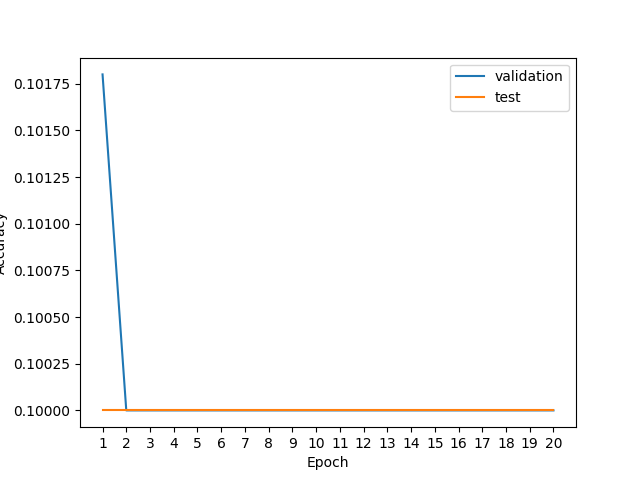
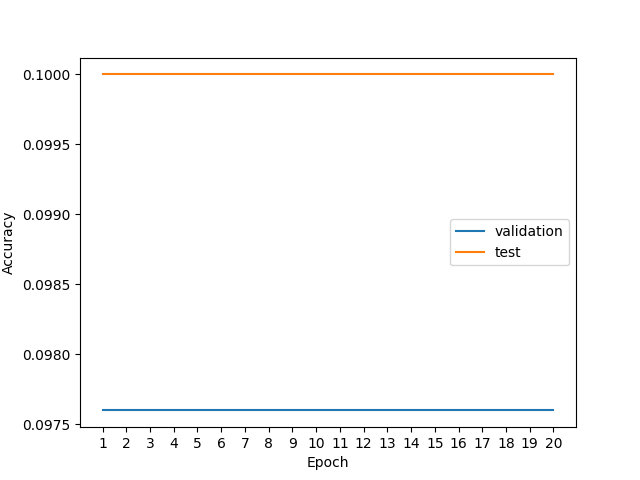
Logistic regression

diff --git a/hw1-q1.py b/hw1-q1.py
@@ -60,6 +60,7 @@ class Perceptron(LinearModel):
         y_hat = (self.W.dot(x_i)).argmax(axis=0)
         if y_hat != y_i:
             self.W += kwargs['learning_rate'] * y_i * x_i
+            #print(y_i*x_i)
 
 
 class LogisticRegression(LinearModel):
@@ -70,8 +71,11 @@ class LogisticRegression(LinearModel):
         learning_rate (float): keep it at the default value for your plots
         """
         # Q1.1b
-        y_hat = (self.W.dot(x_i)).argmax(axis=0)
-        self.W += learning_rate * (y_i - y_hat) * x_i
+        
+        y_hat = 1 / (1 + np.exp(-self.W.dot(x_i)))
+        x = np.matrix(x_i)
+        y_hat = np.matrix(y_hat)
+        self.W += learning_rate * (y_i - y_hat.T) * x
 
 
 class MLP(object):
@@ -99,13 +103,14 @@ class MLP(object):
         # no need to save the values of hidden nodes, whereas this is required
         # at training time.
         rand = np.random.randint(len(X))
-        h0 = X[rand]
+        h0 = X[0]
 
         z1 = self.W1.dot(h0) + self.b1
         h1 = np.maximum(0,z1)
 
         z2 = self.W2.dot(h1) + self.b2
-        h2 = z2
+        #h2 = z2
+        h2 = np.exp(z2) / np.sum(np.exp(z2))
         
         return h2.argmax(axis=0)
 
@@ -124,15 +129,16 @@ class MLP(object):
     def train_epoch(self, X, y, learning_rate=0.001):
         #Forward propagation
         rand = np.random.randint(len(X))
-        h0 = X[rand]
+        h0 = X[0]
 
         z1 = self.W1.dot(h0) + self.b1
         h1 = np.maximum(0,z1)
 
         z2 = self.W2.dot(h1) + self.b2
-        h2 = z2
+        z2 -= np.max(z2)
+        h2 = np.exp(z2) / np.sum(np.exp(z2))
         # Gradient of hidden layer below before activation.
-        grad_z2 = h2 - y[rand]   # Grad of loss wrt z3.
+        grad_z2 = h2 - y[0]   # Grad of loss wrt z3.
         #print(grad_z2)
 
         # Gradient of hidden parameters.
@@ -161,13 +167,15 @@ class MLP(object):
         # Gradient of hidden parameters.
         grad_W1 = grad_z1[:, None].dot(h0[:, None].T)
         grad_b1 = grad_z1
+        np.set_printoptions(threshold=1000000000)
         print(grad_W1)
-        print(grad_b1)
+        #print(grad_b1)
         
         self.W1 -= learning_rate*grad_W1
         self.b1 -= learning_rate*grad_b1
         self.W2 -= learning_rate*grad_W2
         self.b2 -= learning_rate*grad_b2
+        #print(self.W1)
 
 
 def plot(epochs, valid_accs, test_accs):
